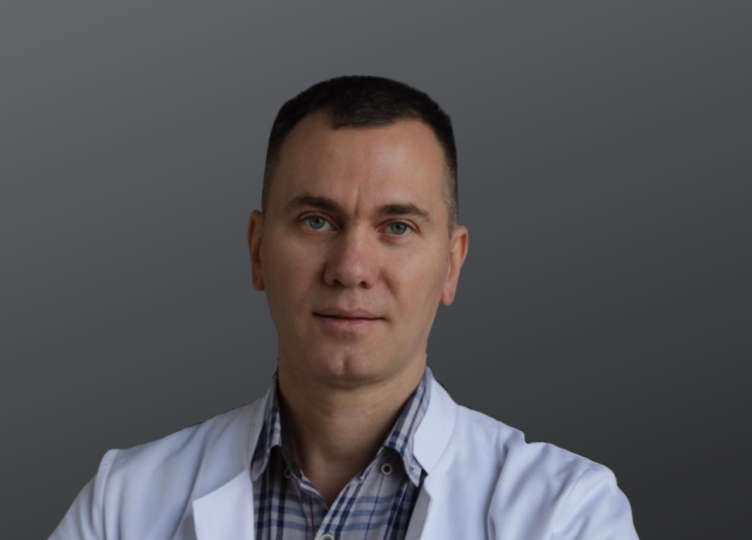
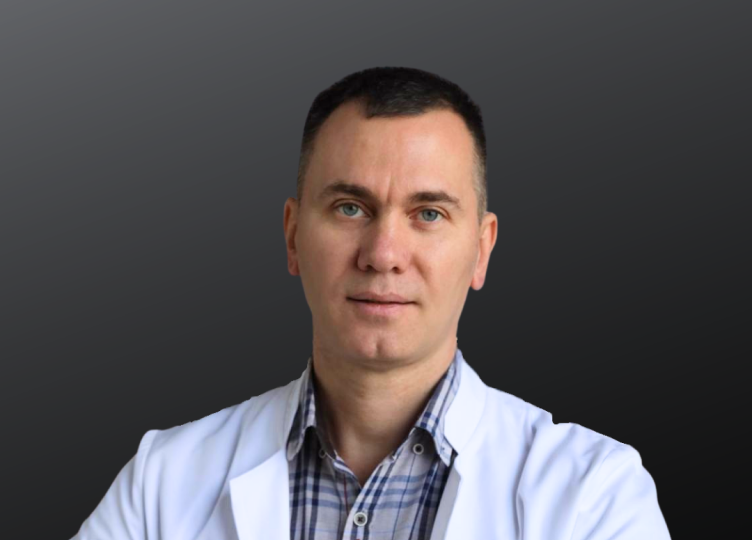
Обновить секцию спикеров: добавить Байдилова и Дегелеву+Королева, заменить фото Королева и рубрики «К барьеру», счётчик 6→8
Made-with: Cursor

diff --git a/data/speakers.js b/data/speakers.js
@@ -14,7 +14,7 @@ const speakers = [
   {
     name: "Королёв Александр",
     photo: "photos/Королев.png",
-    credentials: "к.м.н., доцент кафедры урологии СГМУ, эндокринолог, нутрициолог, практикующий хирург и онколог",
+    credentials: "к.м.н., доцент кафедры урологии СГМУ, эндокринолог, нутрициолог, практикующий хирург, онколог, уролог",
     topic: "Микробиом и онкологические заболевания: актуальные данные и современные подходы к коррекции."
   },
   {
@@ -34,5 +34,19 @@ const speakers = [
     photo: "photos/Кононенко.png",
     credentials: "к.м.н., врач диетолог-нутрициолог, специалист по интегративной и превентивной медицине, основатель Центра превентивной медицины в Санкт-Петербурге",
     topic: "Диагностика процессов детоксикации и ацидоза. Разбор клинического случая."
+  },
+  {
+    name: "Байдилов Арман Канатович",
+    photo: "photos/Байдилов.png",
+    credentials: "Врач anti-age, иммунолог-аллерголог, биохимик, патофизиолог",
+    topic: "Системное хроническое воспаление: патофизиологический мост между микробиотой кишечника и хроническими заболеваниями."
+  },
+  {
+    name: "Дегелева Ольга",
+    name2: "Королёв Александр",
+    photo: "photos/Дегелева_Королев.png",
+    credentials: "Врач-гинеколог, эндокринолог, нутрициолог, специалист УЗИ, Д-доктор. Специалист в области интегративной, превентивной и антивозрастной (Anti-Age) медицины.",
+    credentials2: "к.м.н., доцент кафедры урологии СГМУ, эндокринолог, нутрициолог, практикующий хирург, онколог, уролог",
+    topic: "«Хроническая тазовая боль в работе гинеколога и уролога: эндометриоз, простатит и другие маски одной проблемы». Диалог двух экспертов, глубокое погружение в клиническую практику."
   }
 ];

diff --git a/index.html b/index.html
@@ -72,7 +72,7 @@
             <span class="hero__stat-label">Санкт-Петербург</span>
           </div>
           <div class="hero__stat">
-            <span class="hero__stat-num">6</span>
+            <span class="hero__stat-num">8</span>
             <span class="hero__stat-label">Спикеров-практиков</span>
           </div>
           <div class="hero__stat">
@@ -196,7 +196,7 @@
 
         <div class="about__stats">
           <div class="about__stat reveal reveal-delay-1">
-            <div class="about__stat-num count-target" data-target="6">6</div>
+            <div class="about__stat-num count-target" data-target="8">8</div>
             <div class="about__stat-label">Спикеров — практиков и исследователей</div>
           </div>
           <div class="about__stat reveal reveal-delay-2">

diff --git a/js/main.js b/js/main.js
@@ -230,8 +230,8 @@ function renderSpeakers() {
         ${s.photo ? `<img src="${s.photo}" alt="${s.name}" loading="lazy">` : `<span class="speaker-photo-label">ФОТО</span>`}
       </div>
       <div class="speaker-card__body">
-        <div class="speaker-card__name">${s.name}</div>
-        <div class="speaker-card__cred">${s.credentials}</div>
+        <div class="speaker-card__name">${s.name}${s.name2 ? `<span class="speaker-card__name-sep"> &amp; </span>${s.name2}` : ''}</div>
+        <div class="speaker-card__cred">${s.credentials}${s.credentials2 ? `<br><br>${s.credentials2}` : ''}</div>
         <div class="speaker-card__topic">${s.topic}</div>
       </div>
     </div>
